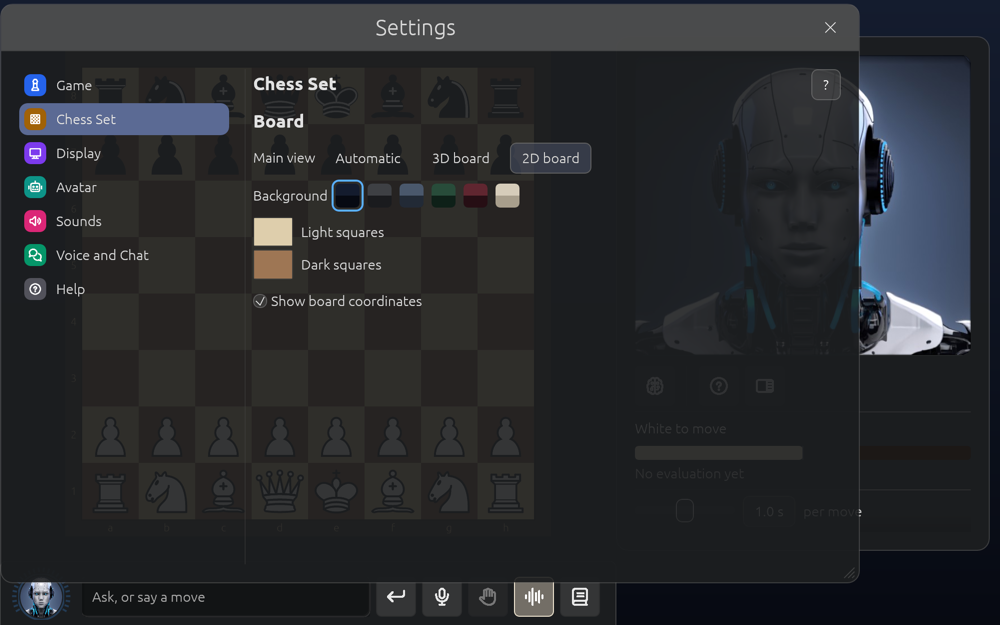
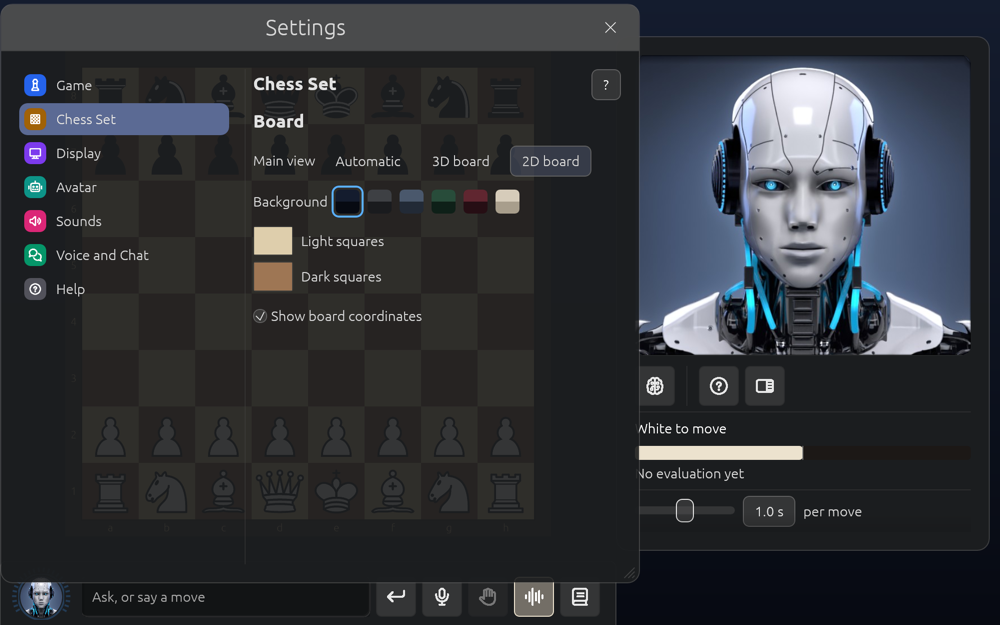
Settings: the iPad's sheet is narrow, at the window's side, and draggable
The pictures follow Solrac's one-column pages and narrower window.

diff --git a/book/src/preferences.md b/book/src/preferences.md
@@ -10,10 +10,11 @@ Click or tap one to show it. A **?** at the top of each page opens the part of t
 it.
 
 On a Mac, Windows or Linux, Settings is a window you can move and leave open while you play. On
-an iPad it is a sheet over the board, and **Done** (or Esc on a keyboard) puts it away. The sheet
-dims the board, but not on Chess Set, Display or Lights, so you can see your changes as you make
-them. In a narrow iPad window the list fills the sheet: tap a page to open it, and
-**‹ Settings** to go back to the list.
+an iPad it is a narrow sheet that opens at the right side of the window, over the panel, so the
+board stays in view: drag the bar along its top to move it anywhere. **Done** (or Esc on a
+keyboard) puts it away. The sheet dims the board, but not on Chess Set, Display or Lights, so you
+can see your changes as you make them. In a narrow iPad window the sheet fills it and shows the
+list: tap a page to open it, and **‹ Settings** to go back to the list.
 
 Settings shows only what applies to the board you are using. With the 2D board there is no
 Lights page, no chess set or chess clock, and no Environment under Display, and the View and
